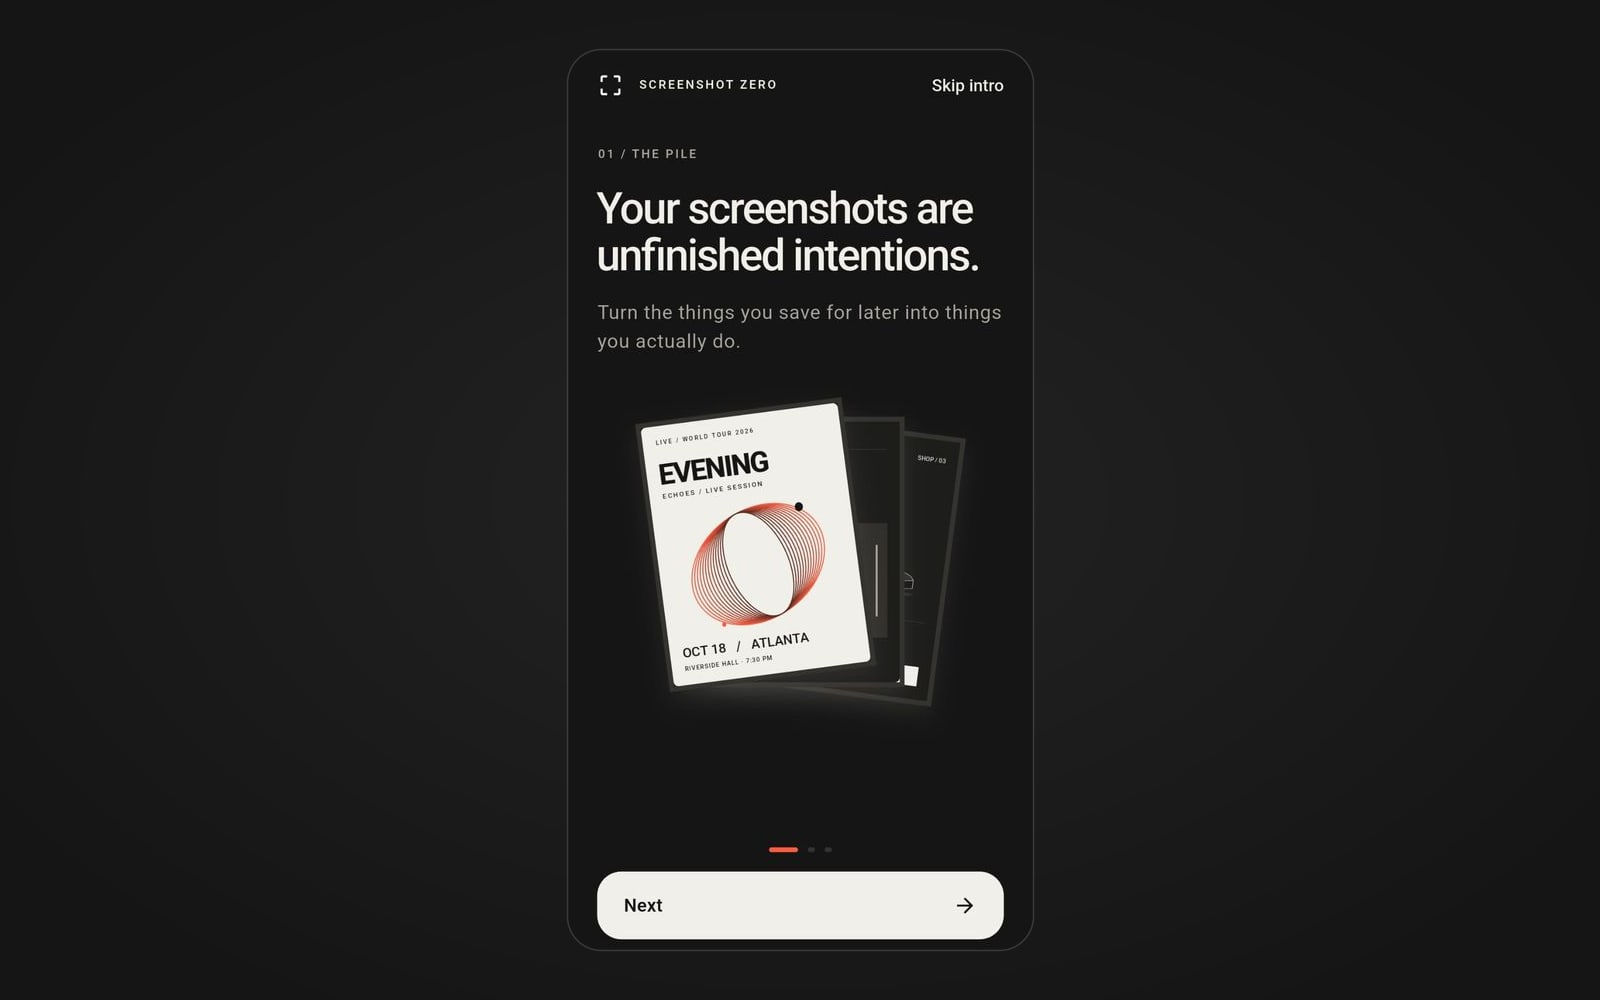
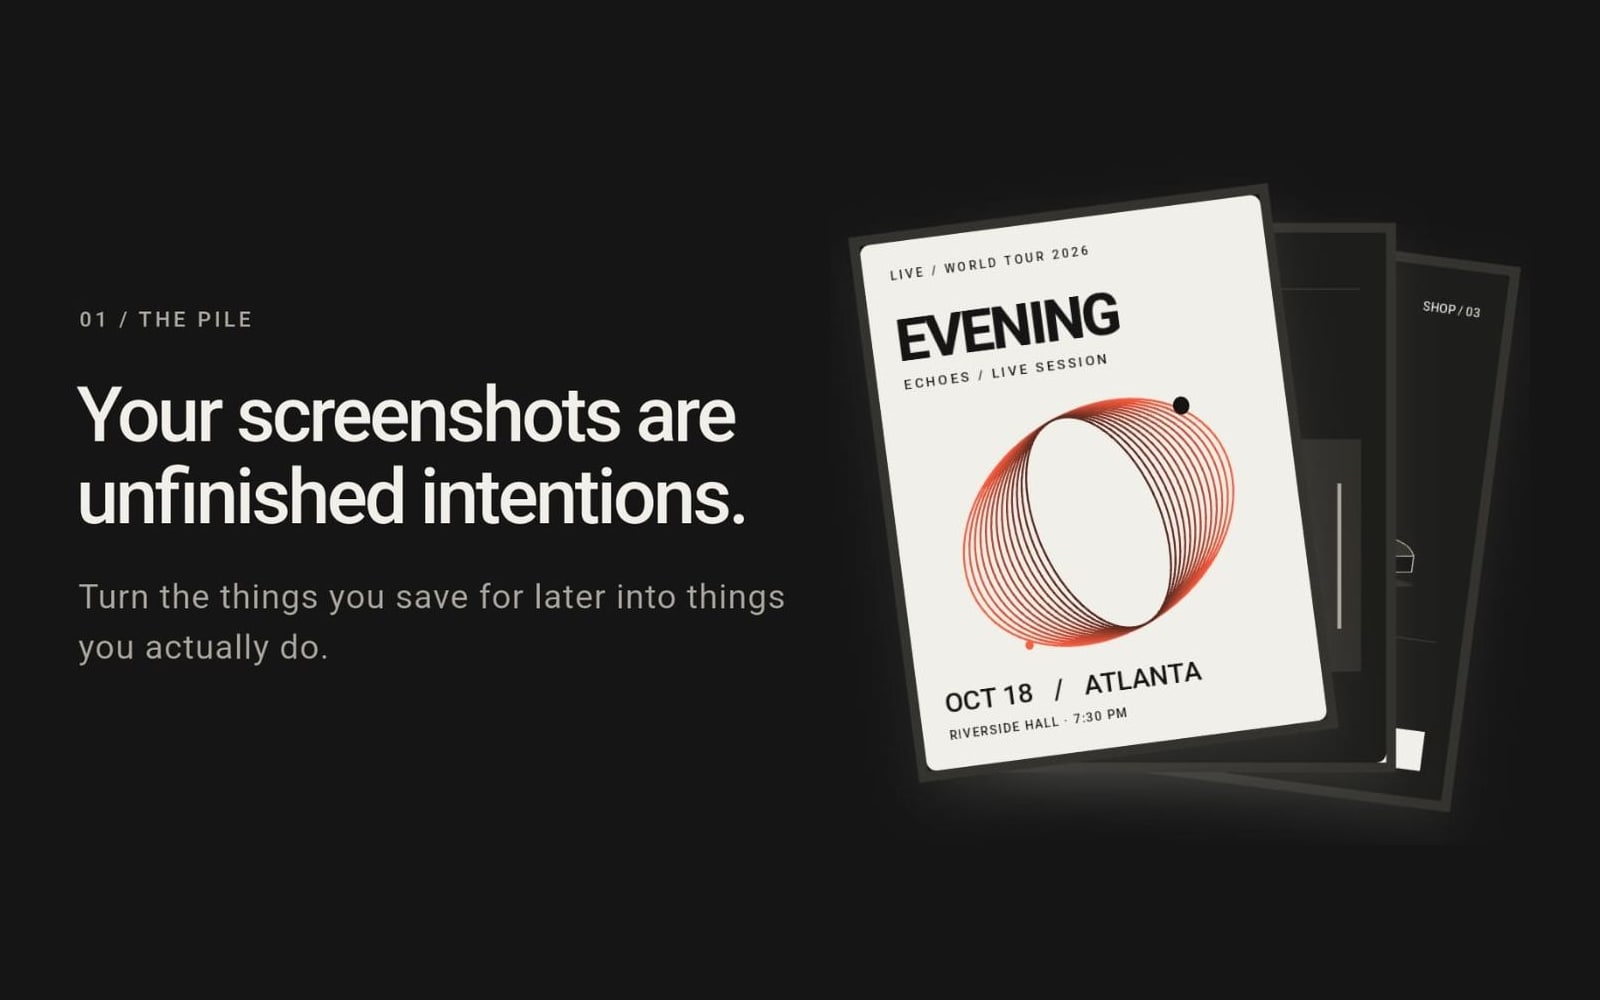
Fill the Screenshot Zero card: headline and card stack side by side
Uses the onboarding screen's own elements at native resolution (no upscaling).

diff --git a/lib/content/projects.ts b/lib/content/projects.ts
@@ -79,7 +79,7 @@ export const projects: Project[] = [
     title: "Screenshot Zero",
     description:
       "A mobile-first productivity app that turns screenshot clutter into actionable items by extracting intent, suggesting next steps, and helping users clear their camera roll to Inbox Zero.",
-    // Onboarding screen from the Android app, framed on the app background
+    // Onboarding screen from the Android app: headline and card stack laid out side by side at native size
     image: "/screenshot_zero.jpg",
     technologies: ["Flutter", "Dart", "Riverpod", "ML Kit", "FastAPI", "OpenAI", "Android"],
     category: "Productivity",
